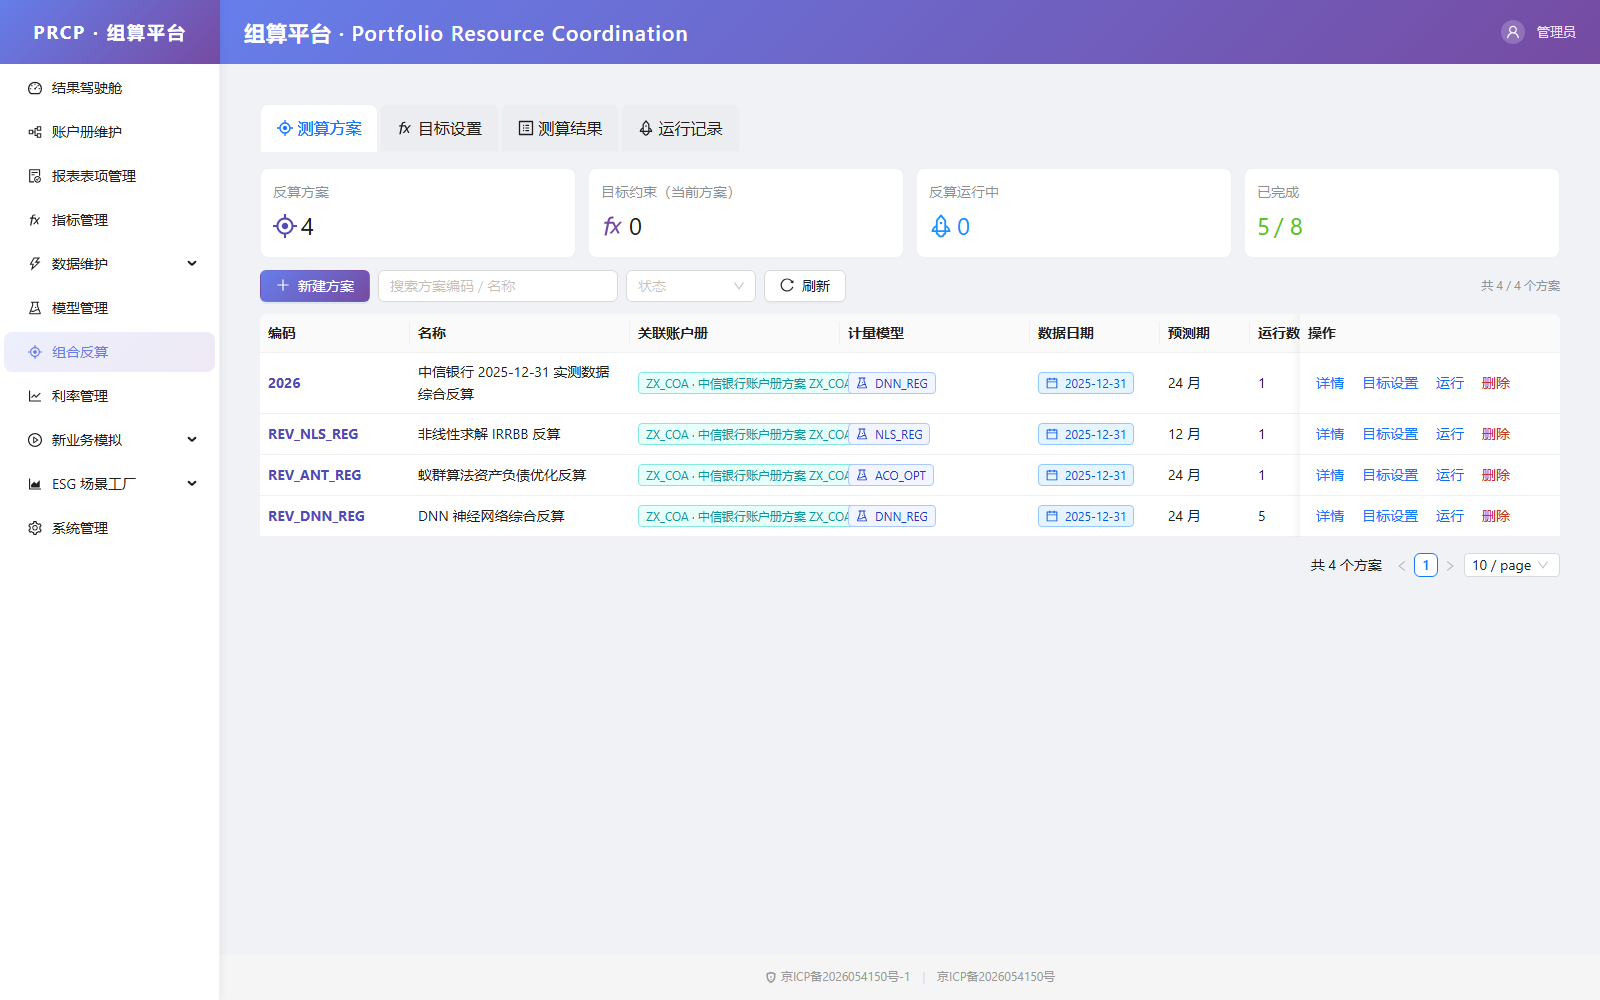
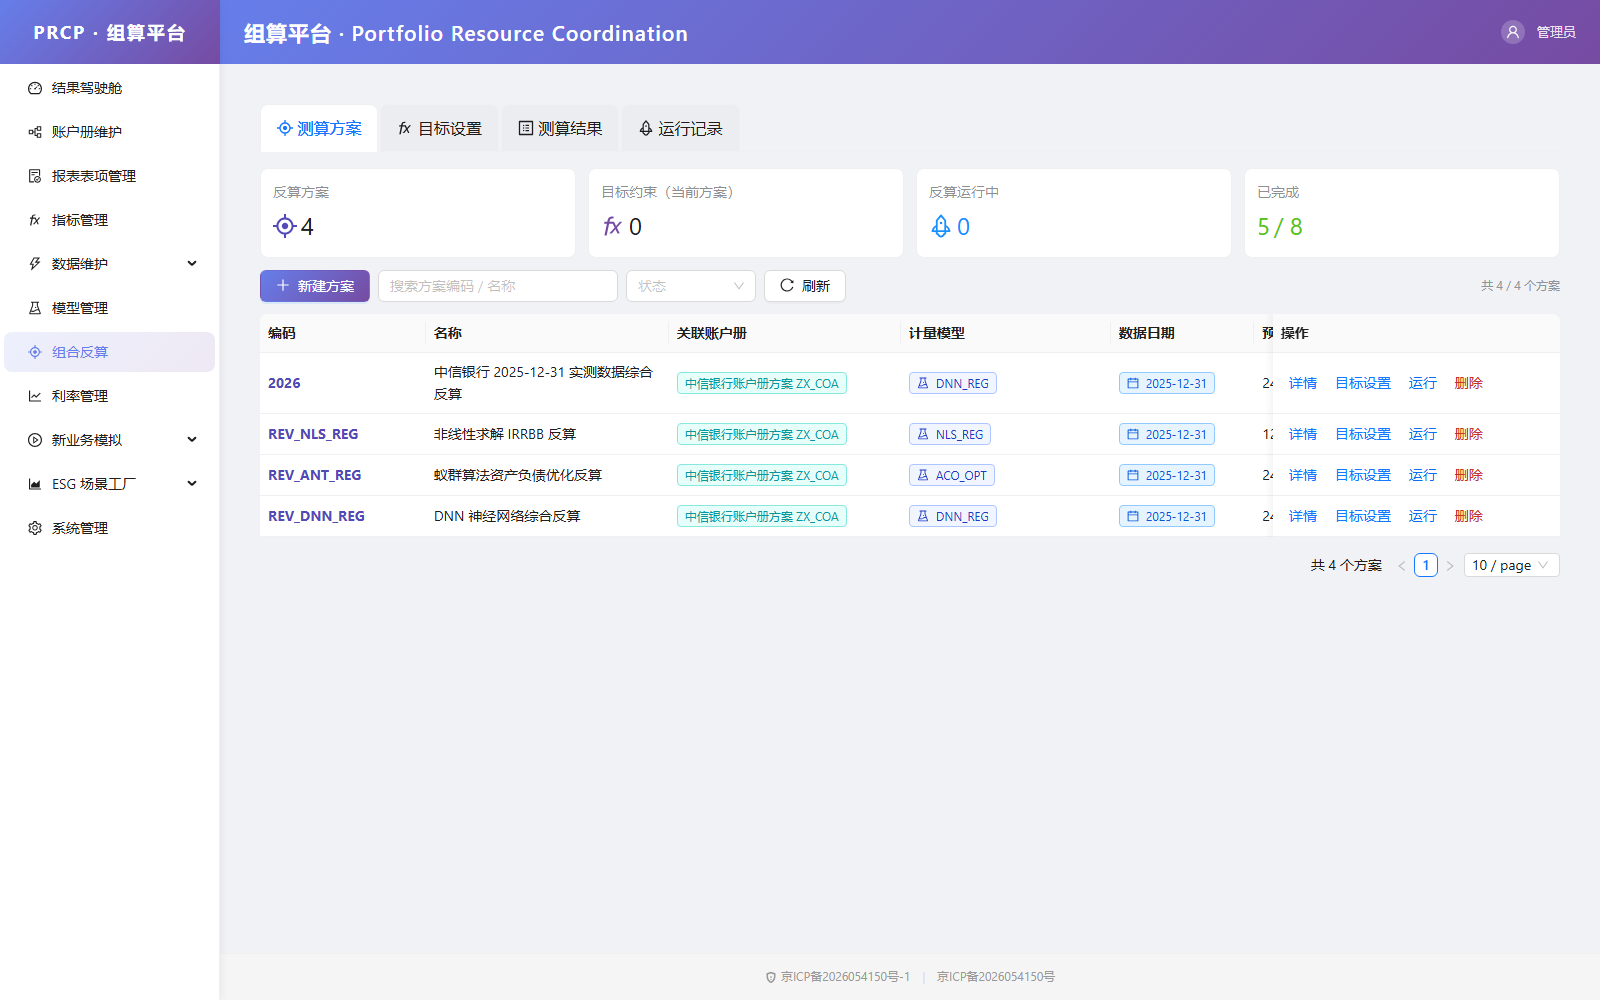
fix(reverse): 测算方案表格列宽压缩 + 操作列取消固定
fixed:right 的操作列会浮在右侧遮挡「状态」列（列宽总和 1430 > 容器 1280）。
- 压缩各列宽度至总和 1210
- 操作列取消 fixed
- scroll.x 1580→1210

diff --git a/frontend/src/pages/ReverseCalc.tsx b/frontend/src/pages/ReverseCalc.tsx
@@ -308,35 +308,35 @@ const ReverseCalc: React.FC = () => {
   // ============================================================
   // 方案表格列（对齐 Java 版：编码/名称/关联账户册/计量模型/数据日期/预测期/运行数/状态/操作）
   const schemeColumns = [
-    { title: '编码', dataIndex: 'scheme_code', key: 'sc', width: 150,
+    { title: '编码', dataIndex: 'scheme_code', key: 'sc', width: 130,
       render: (v: string) => <strong style={{ color: '#534ab7' }}>{v}</strong> },
-    { title: '名称', dataIndex: 'scheme_name', key: 'sn', width: 220,
+    { title: '名称', dataIndex: 'scheme_name', key: 'sn', width: 200,
       render: (v: string, r: any) => (
         <Tooltip title={r.description || v}>
           <span>{v}</span>
         </Tooltip>
       ) },
-    { title: '关联账户册', key: 'coa', width: 210,
+    { title: '关联账户册', key: 'coa', width: 175,
       render: (_: any, r: any) => r.coa_code ? (
         <Tag color="cyan">{r.coa_name || r.coa_code}</Tag>
       ) : <span style={{ color: '#bbb' }}>未关联</span> },
-    { title: '计量模型', key: 'model', width: 190,
+    { title: '计量模型', key: 'model', width: 145,
       render: (_: any, r: any) => r.model_id
         ? <Tag color="geekblue" icon={<ExperimentOutlined />}>{r.model_code || r.model_name}</Tag>
         : <span style={{ color: '#bbb' }}>未关联</span> },
-    { title: '数据日期', dataIndex: 'data_date', key: 'dd', width: 130,
+    { title: '数据日期', dataIndex: 'data_date', key: 'dd', width: 120,
       render: (v: string) => v
         ? <Tag color="blue" icon={<CalendarOutlined />}>{String(v).substring(0, 10)}</Tag>
         : '-' },
-    { title: '预测期', dataIndex: 'horizon_months', key: 'h', width: 90,
+    { title: '预测期', dataIndex: 'horizon_months', key: 'h', width: 80,
       render: (v: number) => (v ? `${v} 月` : '-') },
-    { title: '运行数', dataIndex: 'run_count', key: 'rc', width: 80,
+    { title: '运行数', dataIndex: 'run_count', key: 'rc', width: 70,
       render: (v: number) => (v ?? 0) },
-    { title: '状态', dataIndex: 'status', key: 's', width: 100,
+    { title: '状态', dataIndex: 'status', key: 's', width: 90,
       render: (v: string) => v?.startsWith('PENDING') || v === 'RUNNING' || v === 'SUCCESS' || v === 'FAILED' || v === 'CANCELLED'
         ? <DictTag dictType="PRCP_RUN_STATUS" value={v} />
         : <DictTag dictType="PRCP_STATUS" value={v} /> },
-    { title: '操作', key: 'op', width: 260, fixed: 'right' as const, render: (_: any, r: any) => (
+    { title: '操作', key: 'op', width: 220, render: (_: any, r: any) => (
       <Space size={2}>
         <Button size="small" type="link" onClick={() => onEditScheme(r)}>详情</Button>
         <Button size="small" type="link" onClick={() => { setActiveSchemeId(r.id); setActiveTab('targets') }}>目标设置</Button>
@@ -515,7 +515,7 @@ const ReverseCalc: React.FC = () => {
                 dataSource={filteredSchemes}
                 pagination={{ pageSize: 10, showSizeChanger: true, showTotal: (t) => `共 ${t} 个方案` }}
                 size="small"
-                scroll={{ x: 1580 }}
+                scroll={{ x: 1210 }}
                 rowClassName={(r) => r.id === activeSchemeId ? 'ant-table-row-selected' : ''}
                 onRow={(r) => ({ onDoubleClick: () => { setActiveSchemeId(r.id); setActiveTab('targets') } })}
               />
